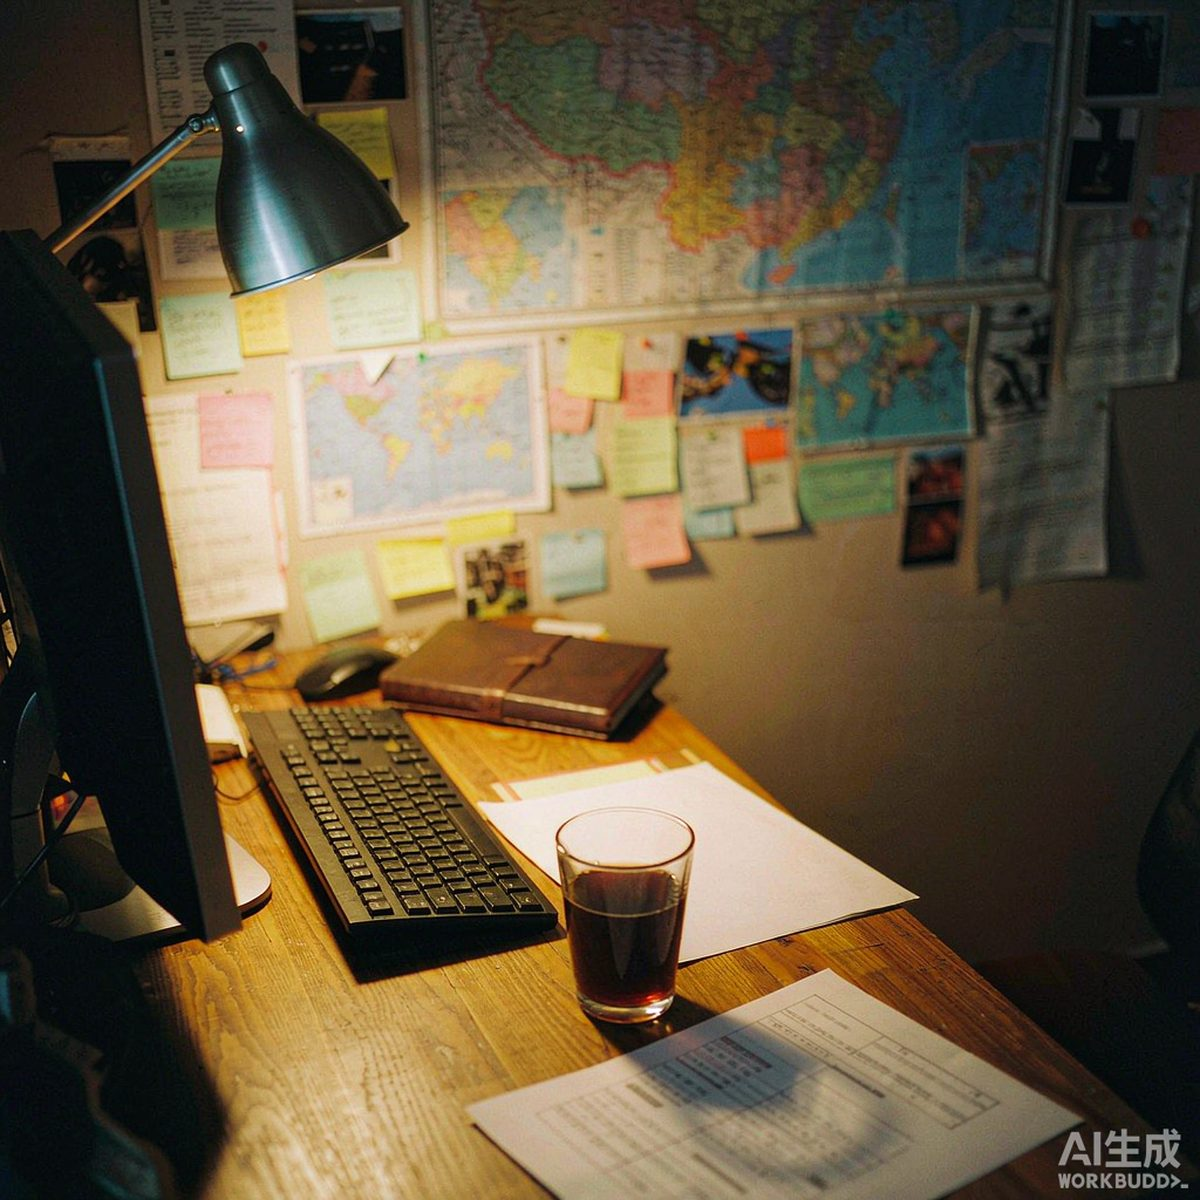
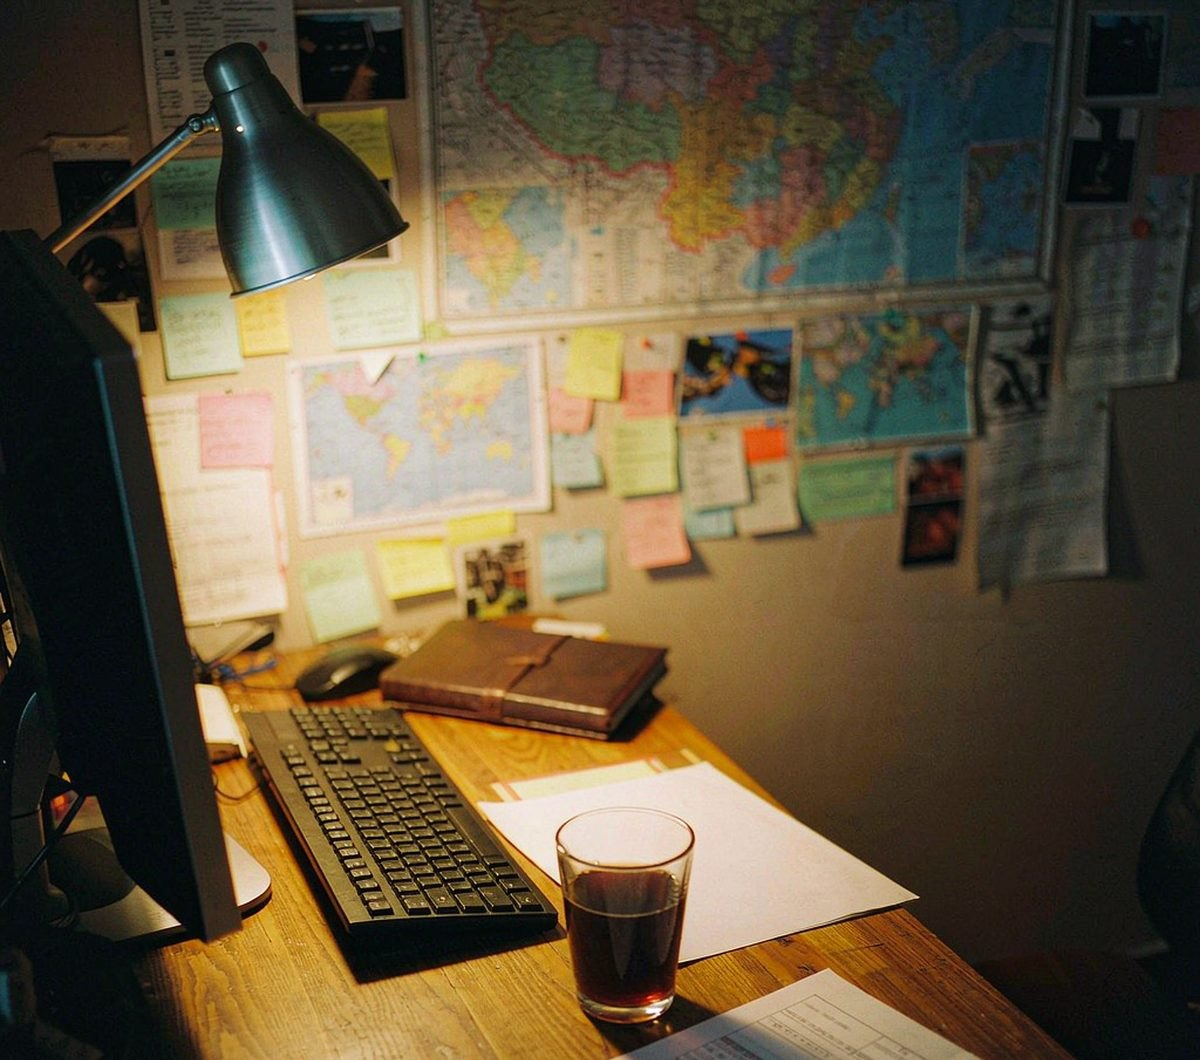
相册改为纯图片墙
- 删除六张照片的说明文字（figcaption）
- 灯箱去掉下方说明，只保留大图与关闭按钮
- 侧栏使用说明同步改写
- 裁掉图片底部的生成水印条

diff --git a/gallery.html b/gallery.html
@@ -93,7 +93,7 @@
           </nav>
           <div class="side-note">
             <h4>使用说明</h4>
-            <p>鼠标移到照片上会出现说明，点一下可以放大观看，按 Esc 键即可退出。</p>
+            <p>点一下照片可以放大观看，按 Esc 键或点空白处即可退出。</p>
           </div>
         </div>
       </aside>
@@ -113,27 +113,21 @@
           <div class="gallery">
             <figure class="shot reveal">
               <img src="images/cat.jpg" alt="一只橘猫趴在书桌上打盹">
-              <figcaption>01 · 占座的小猫</figcaption>
             </figure>
             <figure class="shot reveal">
               <img src="images/campus.jpg" alt="秋天校园里金黄的林荫道">
-              <figcaption>02 · 银杏落满的那条路</figcaption>
             </figure>
             <figure class="shot reveal">
               <img src="images/library.jpg" alt="图书馆窗边的书桌与笔记本">
-              <figcaption>03 · 图书馆三楼靠窗</figcaption>
             </figure>
             <figure class="shot reveal">
               <img src="images/desk.jpg" alt="夜晚台灯下的书桌、键盘与咖啡">
-              <figcaption>04 · 凌晨一点的台灯</figcaption>
             </figure>
             <figure class="shot reveal">
               <img src="images/sky.jpg" alt="夏日傍晚操场上的云与夕阳">
-              <figcaption>05 · 跑完八百米抬头看见的云</figcaption>
             </figure>
             <figure class="shot reveal">
               <img src="images/coffee.jpg" alt="手冲咖啡与摊开的手账本">
-              <figcaption>06 · 一杯咖啡换一个下午</figcaption>
             </figure>
           </div>
         </section>

diff --git a/js/main.js b/js/main.js
@@ -45,16 +45,14 @@
     box.className = 'lightbox';
     box.innerHTML =
       '<button class="close" type="button" aria-label="关闭">&times;</button>' +
-      '<div><img alt=""><div class="cap"></div></div>';
+      '<div><img alt=""></div>';
     document.body.appendChild(box);
 
     var boxImg = box.querySelector('img');
-    var boxCap = box.querySelector('.cap');
 
-    function openBox(src, alt, cap) {
+    function openBox(src, alt) {
       boxImg.src = src;
       boxImg.alt = alt || '';
-      boxCap.textContent = cap || alt || '';
       box.classList.add('open');
       document.body.style.overflow = 'hidden';
     }
@@ -66,8 +64,7 @@
     shots.forEach(function (shot) {
       shot.addEventListener('click', function () {
         var img = shot.querySelector('img');
-        var cap = shot.querySelector('figcaption');
-        openBox(img.getAttribute('src'), img.getAttribute('alt'), cap ? cap.textContent : '');
+        openBox(img.getAttribute('src'), img.getAttribute('alt'));
       });
     });
     box.addEventListener('click', function (e) {

diff --git a/css/style.css b/css/style.css
@@ -679,21 +679,6 @@ ul, ol { list-style: none; }
   transition: transform .65s cubic-bezier(.2, .8, .3, 1), filter .4s;
 }
 .shot:hover img { transform: scale(1.07); filter: saturate(1.06); }
-.shot figcaption {
-  position: absolute;
-  left: 0;
-  right: 0;
-  bottom: 0;
-  padding: 26px 14px 12px;
-  color: #fff;
-  font-size: 13px;
-  letter-spacing: 1px;
-  background: linear-gradient(transparent, rgba(12, 30, 48, .78));
-  transform: translateY(6px);
-  opacity: 0;
-  transition: opacity .3s, transform .3s;
-}
-.shot:hover figcaption { opacity: 1; transform: translateY(0); }
 .shot::after {
   content: "+";
   position: absolute;
@@ -727,7 +712,6 @@ ul, ol { list-style: none; }
   border-radius: 10px;
   box-shadow: 0 30px 60px rgba(0, 0, 0, .5);
 }
-.lightbox .cap { color: #e9e2d6; text-align: center; margin-top: 16px; font-size: 13px; letter-spacing: 2px; }
 .lightbox .close {
   position: absolute;
   top: 26px;
